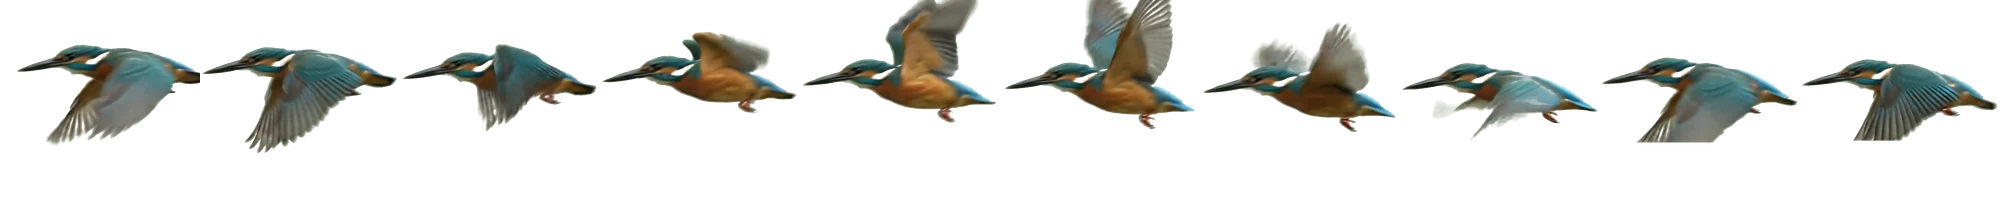
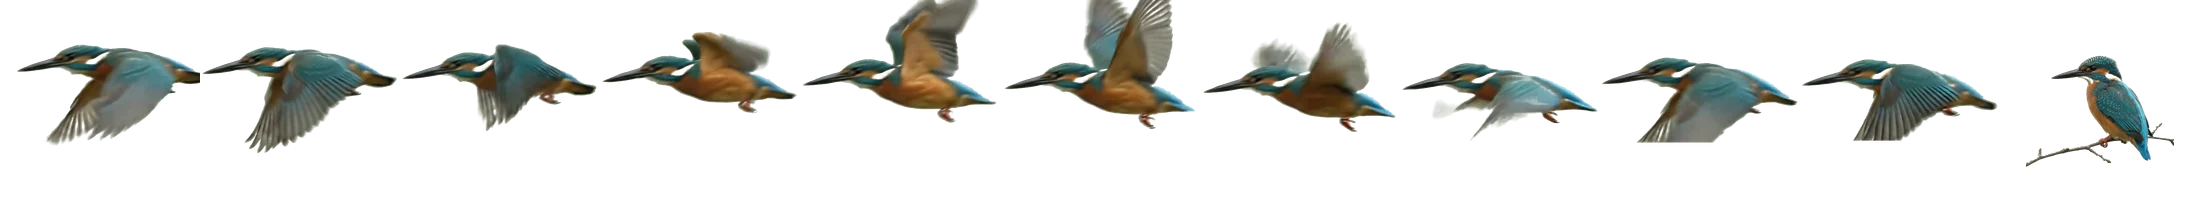
Keep the bird off the hero and land it on the footer
The bird now stays hidden until the hero is scrolled past — that section
already has the bird itself — and fades in as it enters.

At the end it breaks off the tack, glides to the bottom centre and settles
onto a perch. The perched pose is another frame keyed from the hero clip,
scaled to match the flight cells and with its twig faded at both ends so
it reads as a perch rather than a cut stick, giving the page the same
bookend the hero opens with.

The glide finishes before the perched frame appears, so the bird is never
shown perched while still moving. The resting spot is measured from the
footer's hairline rather than a fixed offset, which on a short screen had
put the bird on top of the footer links.

Changed region(s): [[0.0, 0.0, 1.0, 0.78], [0.899, 0.78, 0.93, 0.81]]

diff --git a/components/motion/FlyingBird.tsx b/components/motion/FlyingBird.tsx
@@ -3,15 +3,30 @@
 import { useEffect, useRef } from "react";
 import { ScrollTrigger, gsap, prefersReducedMotion, registerGsap } from "@/lib/motion";
 
-/** Frames in public/bird-flight.webp. */
-const FRAMES = 10;
+/** Cells in public/bird-flight.webp: ten of flight, then the perched bird. */
+const SPRITE_FRAMES = 11;
+const FLIGHT_FRAMES = 10;
+const PERCHED_FRAME = 10;
+
 /** Wingbeats per full crossing of the screen. */
 const BEATS_PER_CROSSING = 30;
-/** Full-width crossings over the whole page. Odd, so it finishes bottom-left. */
+/** Full-width crossings before the landing approach begins. */
 const CROSSINGS = 3;
+/** Share of the flight spent tacking; the rest is the glide down to the perch. */
+const LAND_FROM = 0.86;
+/** Share of the landing spent moving. After this the bird is perched and still. */
+const GLIDE_PART = 0.7;
+/** The tack bottoms out here, leaving room to drop onto the perch. */
+const TACK_DEPTH = 0.9;
 /** Keeps the bird clear of the nav and the very bottom edge. */
 const INSET_TOP = 88;
 const INSET_BOTTOM = 64;
+/** Where the twig sits in the perched cell, as a share of the cell height up
+ *  from its bottom — used to stand the bird on the footer rule. */
+const TWIG_FROM_BOTTOM = 0.21;
+
+const easeOut = (t: number) => 1 - Math.pow(1 - t, 3);
+const clamp01 = (t: number) => Math.min(1, Math.max(0, t));
 
 /**
  * Fold a straight line into a segment, reflecting at both ends — the bird turns
@@ -28,14 +43,15 @@ function fold(value: number, span: number): { v: number; dir: 1 | -1 } {
 /**
  * A kingfisher that glides down across the page as you scroll, tacking left and
  * right. It turns at each side rather than wrapping around, and every leg
- * descends — the return leg carries on down instead of retracing the way it
- * came, so the path keeps making progress down the page.
+ * descends, so the path keeps making progress down the page.
+ *
+ * It stays out of the hero — that already has the bird itself — and over the
+ * last stretch it breaks off the tack, glides to the bottom centre and settles
+ * onto a perch.
  *
  * Position, heading and wingbeat are all driven by scroll, so the bird flies
  * while you scroll and rests when you stop. Decorative only: no pointer events,
  * hidden for reduced motion.
- *
- * The frames are the real bird from the hero clip, keyed off its flat backdrop.
  */
 export default function FlyingBird() {
   const ref = useRef<HTMLDivElement>(null);
@@ -51,41 +67,86 @@ export default function FlyingBird() {
     const quickS = gsap.quickSetter(el, "scaleX");
     let lastFrame = -1;
 
+    // Share of the page taken by the hero — the bird only appears past it.
+    let heroShare = 0;
+    // Viewport y the bird settles at, so it stands on the footer's hairline
+    // rather than a fixed offset that would cover the links on short screens.
+    let perchY = 0;
+    const measure = () => {
+      const max = document.documentElement.scrollHeight - window.innerHeight;
+      const hero = document.querySelector<HTMLElement>(".hero");
+      heroShare = hero && max > 0 ? Math.min(0.85, hero.offsetHeight / max) : 0;
+
+      const h = el.offsetHeight;
+      const rule = document.querySelector<HTMLElement>(".footer__grid");
+      const fallback = window.innerHeight - h - INSET_BOTTOM;
+      if (rule && max > 0) {
+        // Where that rule lands in the viewport once the page is scrolled out.
+        const ruleY = rule.getBoundingClientRect().top + window.scrollY - max;
+        perchY = ruleY - h * (1 - TWIG_FROM_BOTTOM);
+      } else {
+        perchY = fallback;
+      }
+      perchY = Math.min(Math.max(perchY, INSET_TOP), window.innerHeight - h - 8);
+    };
+
     const place = (progress: number) => {
       const w = el.offsetWidth;
       const h = el.offsetHeight;
       const spanX = Math.max(1, window.innerWidth - w);
       const spanY = Math.max(1, window.innerHeight - h - INSET_TOP - INSET_BOTTOM);
 
-      // Horizontal: tack back and forth. Offset by one span so the bird starts
-      // at the right-hand edge heading left. The value fed to `fold` has to keep
-      // increasing, or the direction it reports comes out inverted.
-      const travelled = progress * CROSSINGS * spanX;
-      // The epsilon keeps the last pixel of the page on the leg the bird arrived
-      // on, instead of landing exactly on a fold boundary and flipping to face
-      // back the way it came.
-      const x = fold(spanX + travelled - 1e-6, spanX);
-      // Vertical: one steady descent over the whole page, so both the leftward
-      // and the rightward legs go down and the path never retraces itself.
-      const y = progress * spanY;
+      const airborne = progress > heroShare;
+      el.classList.toggle("is-flying", airborne);
+      if (!airborne) return;
 
-      quickX(x.v);
-      quickY(INSET_TOP + y);
-      // The sprite faces left, so mirror it whenever the bird turns right.
-      quickS(x.dir > 0 ? -1 : 1);
-      // Nose on the real heading: the descent is shallow, so the tilt is slight.
-      const slope = (Math.atan2(spanY, CROSSINGS * spanX) * 180) / Math.PI;
-      quickR(x.dir * slope);
+      const flight = clamp01((progress - heroShare) / Math.max(1e-6, 1 - heroShare));
 
-      const stride = spanX / (BEATS_PER_CROSSING * FRAMES);
-      const frame = Math.floor(travelled / stride) % FRAMES;
+      // Tacking phase. Past LAND_FROM this pins to its end state, which is what
+      // the landing glide interpolates away from.
+      const t = Math.min(flight, LAND_FROM) / LAND_FROM;
+      const travelled = t * CROSSINGS * spanX;
+      // The epsilon keeps the end of the tack on the leg the bird arrived on,
+      // instead of landing exactly on a fold boundary and flipping to face back.
+      const tack = fold(spanX + travelled - 1e-6, spanX);
+      const tackY = INSET_TOP + t * spanY * TACK_DEPTH;
+      const slope = (Math.atan2(spanY * TACK_DEPTH, CROSSINGS * spanX) * 180) / Math.PI;
+
+      let x = tack.v;
+      let y = tackY;
+      let facingRight = tack.dir > 0;
+      let rotation = tack.dir * slope;
+      let frame = Math.floor(travelled / (spanX / (BEATS_PER_CROSSING * FLIGHT_FRAMES))) % FLIGHT_FRAMES;
+
+      if (flight > LAND_FROM) {
+        // Glide to the perch: bottom centre, levelling out as it arrives. The
+        // move finishes at GLIDE_PART, so the perched bird is never in motion —
+        // otherwise it looks like it is sliding along on its twig.
+        const phase = (flight - LAND_FROM) / (1 - LAND_FROM);
+        const k = easeOut(clamp01(phase / GLIDE_PART));
+        const targetX = spanX / 2;
+        const targetY = perchY;
+        x = tack.v + (targetX - tack.v) * k;
+        y = tackY + (targetY - tackY) * k;
+        facingRight = targetX > tack.v;
+        rotation *= 1 - k;
+        if (phase >= GLIDE_PART) frame = PERCHED_FRAME;
+      }
+
+      quickX(x);
+      quickY(y);
+      // The sprite faces left, so mirror it whenever the bird heads right.
+      quickS(facingRight ? -1 : 1);
+      quickR(rotation);
+
       if (frame !== lastFrame) {
         lastFrame = frame;
-        // The strip is FRAMES wide, so frame i sits at i/(FRAMES-1) of the travel.
-        el.style.backgroundPositionX = `${(frame / (FRAMES - 1)) * 100}%`;
+        // The strip is SPRITE_FRAMES wide, so frame i sits at i/(n-1) of the travel.
+        el.style.backgroundPositionX = `${(frame / (SPRITE_FRAMES - 1)) * 100}%`;
       }
     };
 
+    measure();
     place(0);
     const trigger = ScrollTrigger.create({
       trigger: document.body,
@@ -93,7 +154,10 @@ export default function FlyingBird() {
       end: "bottom bottom",
       scrub: true,
       onUpdate: (self) => place(self.progress),
-      onRefresh: (self) => place(self.progress),
+      onRefresh: (self) => {
+        measure();
+        place(self.progress);
+      },
     });
 
     return () => trigger.kill();

diff --git a/app/globals.css b/app/globals.css
@@ -930,13 +930,17 @@ html[data-tone="dark"] .nav .btn:hover span { color: var(--ink); }
   width: clamp(62px, 7vw, 112px);
   aspect-ratio: 1;
   pointer-events: none;
-  /* Ten-frame strip; the wingbeat is stepped from scroll, not a CSS timer. */
-  background: url("/bird-flight.webp") 0 0 / 1000% 100% no-repeat;
+  /* Eleven-cell strip (ten of flight, then perched); the wingbeat is stepped
+     from scroll, not a CSS timer. */
+  background: url("/bird-flight.webp") 0 0 / 1100% 100% no-repeat;
+  /* Stays out of the hero; the script turns it on once past it. */
+  opacity: 0;
   /* Just enough to sit the bird on the page, without smudging the light ground. */
   filter: drop-shadow(0 4px 9px rgba(12, 13, 13, .18));
   will-change: transform, background-position;
   transition: opacity .6s var(--ease);
 }
+.flybird.is-flying { opacity: 1; }
 html:not(.js) .flybird, .reduced .flybird { display: none; }
 /* Out of the way while a full-screen overlay is open. */
 html.is-locked .flybird { opacity: 0; }
